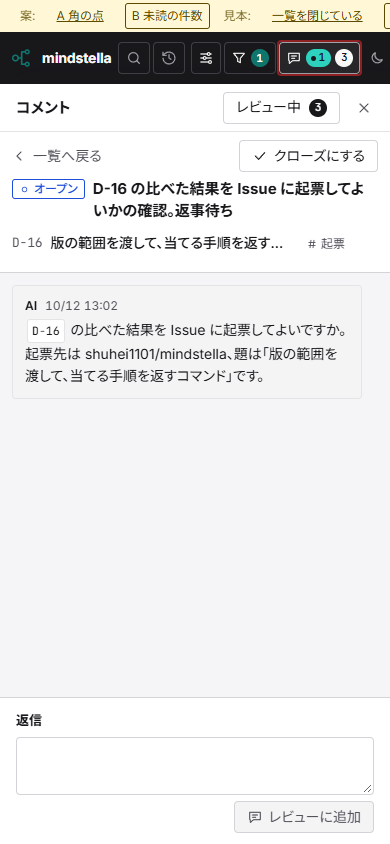
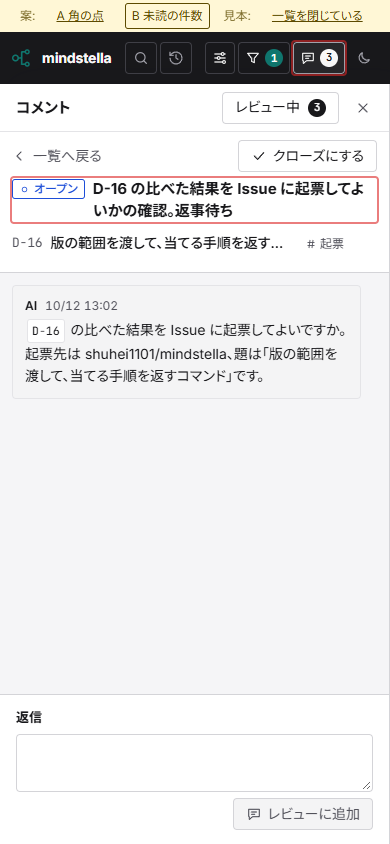
docs: PR #258 のモックに未読が 1 件の見本を足し、案 A で既読にする流れと見本・操作を撮り直す

diff --git a/dev/mock/refs/258/assets/mock.js b/dev/mock/refs/258/assets/mock.js
@@ -5,7 +5,7 @@
 //   offline=1: 溜める・送る・書き換える要求が届かない / entered=0: Claude Code へ入力できない
 //   filter: スレッドの一覧をその状態で絞る / tag: そのタグで絞る / open: そのスレッドを開く / view=review: レビュー中を確かめる画面を開く / compose=1: 新しいスレッドの入力を開く
 //   drawer=1: コメントの一覧を開いた状態で始める
-//   unread: 利用者の未読の書き込みの見本（無し: TH-2・TH-4・TH-6 が未読 / 0: 未読なし / closed: クローズの TH-6 だけが未読）
+//   unread: 利用者の未読の書き込みの見本（無し: TH-2・TH-4・TH-6 が未読 / 0: 未読なし / closed: クローズの TH-6 だけが未読 / one: オープンは TH-2 だけが未読）
 (() => {
   const body = document.body;
   const params = new URLSearchParams(location.search);
@@ -117,6 +117,7 @@
   const unreadPosts = {
     "0": [],
     closed: ["TH-6-3"],
+    one: ["TH-2-1", "TH-6-3"],
   }[params.get("unread") ?? ""] ?? ["TH-2-1", "TH-4-4", "TH-6-3"];
   // 書き込みに利用者の既読を持たせる（キーの名前は ER 図の更新で決める。モックの仮の名前 seen）
   for (const thread of threads) {

diff --git a/dev/mock/pages/comments/258/a-corner-dot/index.html b/dev/mock/pages/comments/258/a-corner-dot/index.html
@@ -36,6 +36,7 @@
     <a href="#" data-set="">一覧を閉じている</a>
     <a href="#" data-set="drawer=1">未読あり</a>
     <a href="#" data-set="drawer=1&amp;unread=closed">クローズだけ未読</a>
+    <a href="#" data-set="drawer=1&amp;unread=one">オープンの未読は TH-2 だけ</a>
     <a href="#" data-set="drawer=1&amp;unread=0">未読なし</a>
     <a href="#" data-set="drawer=1&amp;unread=0&amp;review=0">未読なし・レビュー中 0 件</a>
     <a href="#" data-set="open=TH-4">未読のスレッドを開いた（TH-4）</a>

diff --git a/dev/mock/pages/comments/258/b-unread-count/index.html b/dev/mock/pages/comments/258/b-unread-count/index.html
@@ -36,6 +36,7 @@
     <a href="#" data-set="">一覧を閉じている</a>
     <a href="#" data-set="drawer=1">未読あり</a>
     <a href="#" data-set="drawer=1&amp;unread=closed">クローズだけ未読</a>
+    <a href="#" data-set="drawer=1&amp;unread=one">オープンの未読は TH-2 だけ</a>
     <a href="#" data-set="drawer=1&amp;unread=0">未読なし</a>
     <a href="#" data-set="drawer=1&amp;unread=0&amp;review=0">未読なし・レビュー中 0 件</a>
     <a href="#" data-set="open=TH-4">未読のスレッドを開いた（TH-4）</a>
